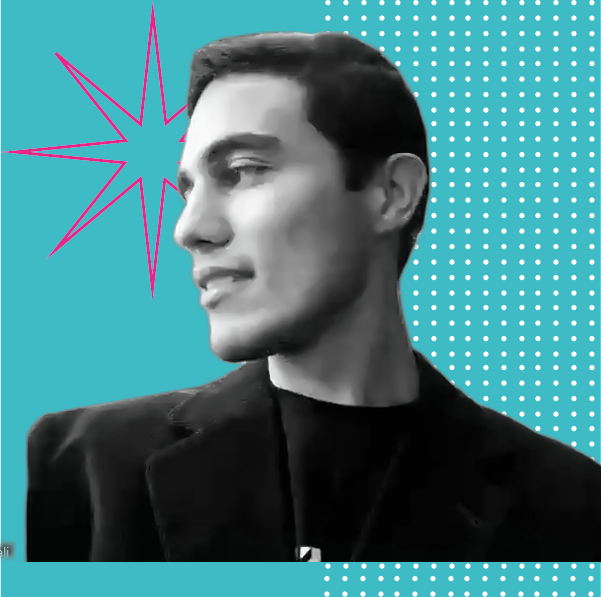
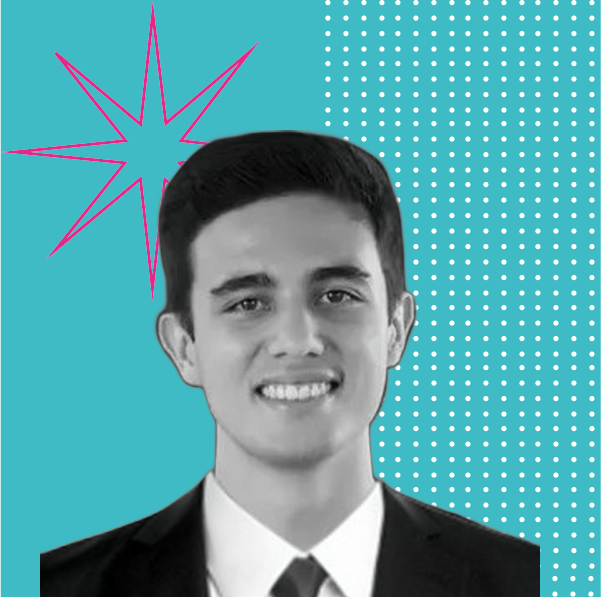
winda working v1.0

diff --git a/templates/base.html b/templates/base.html
@@ -6,5 +6,12 @@
 	<body>
 		<h1>Marimaker:  Crop and create ala 42 photos with your photo automatically!</h1>
 		{% include 'form.html' %}
+		<h1>Good photos Examples!</h1>
+		<img src="https://cdn.discordapp.com/attachments/774747114353066004/934561323872833607/theofficer.jpg" width="300">
+		<img src="https://cdn.discordapp.com/attachments/774747114353066004/934566678191300708/caioresult.png" width="300">
+		<br>
+		<img src="https://cdn.discordapp.com/attachments/774747114353066004/934561323361107968/rafa.png" width="300">
+		<img src="https://cdn.discordapp.com/attachments/774747114353066004/934566677713158184/rafaexample.png" width="300">
+		<br>
 	<body>
 </html>

diff --git a/overlay.py b/overlay.py
@@ -2,25 +2,30 @@
 from PIL import Image, ImageOps, ImageEnhance
 import os
 
-img1 = Image.open(r"./assets/cyan_background.png")
+def do_the_trick(path):
+	img1 = Image.open(r"./assets/cyan_background.png")
 
-img2 = Image.open(r"./assets/magenta_star.png")
+	img2 = Image.open(r"./assets/magenta_star.png")
 
-img3 = Image.open(r"./assets/1.png")
+	img3 = Image.open(path)
 
-string = "sudo backgroundremover -i " + "./assets/1.png" + " -m "+ "u2net_human_seg" + " -o ./assets/result.png"
+	basewidth = 500
+	wpercent = (basewidth/float(img3.size[0]))
+	hsize = int((float(img3.size[1])*float(wpercent)))
+	img3 = img3.resize((basewidth,hsize), Image.ANTIALIAS)
 
-os.system(string)
+	img3.save("./assets/2.png")
 
-cropedImage = Image.open("./assets/result.png")
+	string = "sudo backgroundremover -i " + "./assets/2.png" + " -m "+ "u2net_human_seg" + " -o ./assets/result.png"
 
-converter = ImageEnhance.Color(cropedImage)
-cropedImage = converter.enhance(0)
-# Pasting img2 image on top of img1
-# starting at coordinates (0, 0)
-img1.paste(img2, (0,0), mask = img2)
-img1.paste(cropedImage, (0,0), mask = cropedImage)
-# Displaying the image
+	os.system(string)
 
-img1 = img1.save("./assets/overlay.png")
+	cropedImage = Image.open("./assets/result.png")
 
+	converter = ImageEnhance.Color(cropedImage)
+	cropedImage = converter.enhance(0)
+
+	img1.paste(img2, (0,0), mask = img2)
+	img1.paste(cropedImage, (40,130), mask = cropedImage)
+
+	img1 = img1.save("./assets/overlay.png")

diff --git a/app.py b/app.py
@@ -1,6 +1,7 @@
-from flask import Flask, render_template, request, redirect, url_for, send_from_directory
+from flask import Flask, render_template, request, redirect, url_for, send_from_directory, send_file
 from werkzeug.utils import secure_filename
 import os
+from overlay import do_the_trick
 
 app = Flask(__name__)
 
@@ -28,11 +29,13 @@ def base():
 			filename = secure_filename(file.filename)
 		file_location = os.path.join(app.config['UPLOAD_FOLDER'], filename)
 		file.save(file_location)
+		# magic mike 
+		do_the_trick(file_location)
 		# delete images
 		os.remove(file_location)
 		# call above route /uploads/name and redict user to access image
 		#return redirect(url_for('download_file', name=filename))
-		return file_location	
+		return send_file("./assets/overlay.png", mimetype='image/gif')
 	return render_template("base.html")
 
 app.run()
